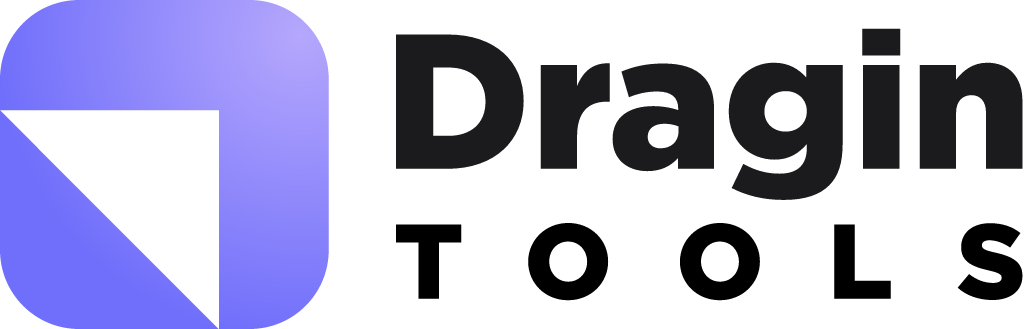
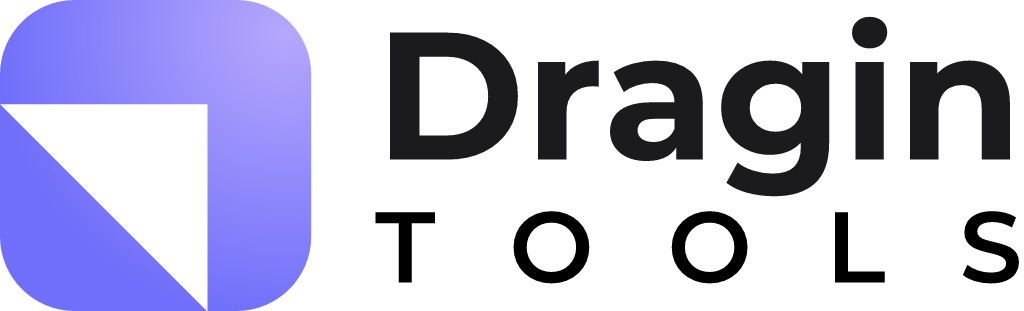
shared/brand: swap wordmark Gotham -> Montserrat (SIL OFL), licensing clean
Traced programmatically: fontTools instancer (wght 700/600 statics) + opentype.js
glyph paths, matched to the original lockup geometry (cap heights, baselines,
justified TOOLS tracking). Lockup SVGs + PNGs regenerated; README updated.

diff --git a/shared/brand/README.md b/shared/brand/README.md
@@ -40,10 +40,11 @@ radial-gradient support works; avoid renderPM/svglib — poor gradient handling)
 
 ## Font
 
-Wordmark was set in **Gotham** (Hoefler&Co, commercial) and exported as outlines.
-⚠ Outlining avoids *distributing* the font file, but creating artwork with an unlicensed
-font is still unlicensed use — H&Co licenses explicitly cover logo usage and they are
-known to enforce. Low practical risk while private/testing; **before public launch**,
-either buy a Gotham license or re-set the wordmark in **Montserrat** (SIL OFL — free,
-designed in the same geometric-grotesque spirit; Bold tracks very close to Gotham Bold
-at logo sizes). ~10 min swap in Figma, then re-export `lockup-on-light.svg` here.
+Wordmark is set in **Montserrat** (SIL Open Font License — free for any use, including
+logos): `Dragin` = Bold (700), `TOOLS` = SemiBold (600), letterspaced/justified to the
+"Dragin" width. Outlined to paths — no font file is shipped or required.
+
+The original draft used Gotham (commercial, unlicensed) — replaced 2026-07 with
+Montserrat, traced programmatically (fontTools instancer + opentype.js) to match the
+original lockup geometry (cap heights, baselines, x-origin). Sync the Figma file's
+wordmark to Montserrat Bold/SemiBold when convenient so design and repo match.
